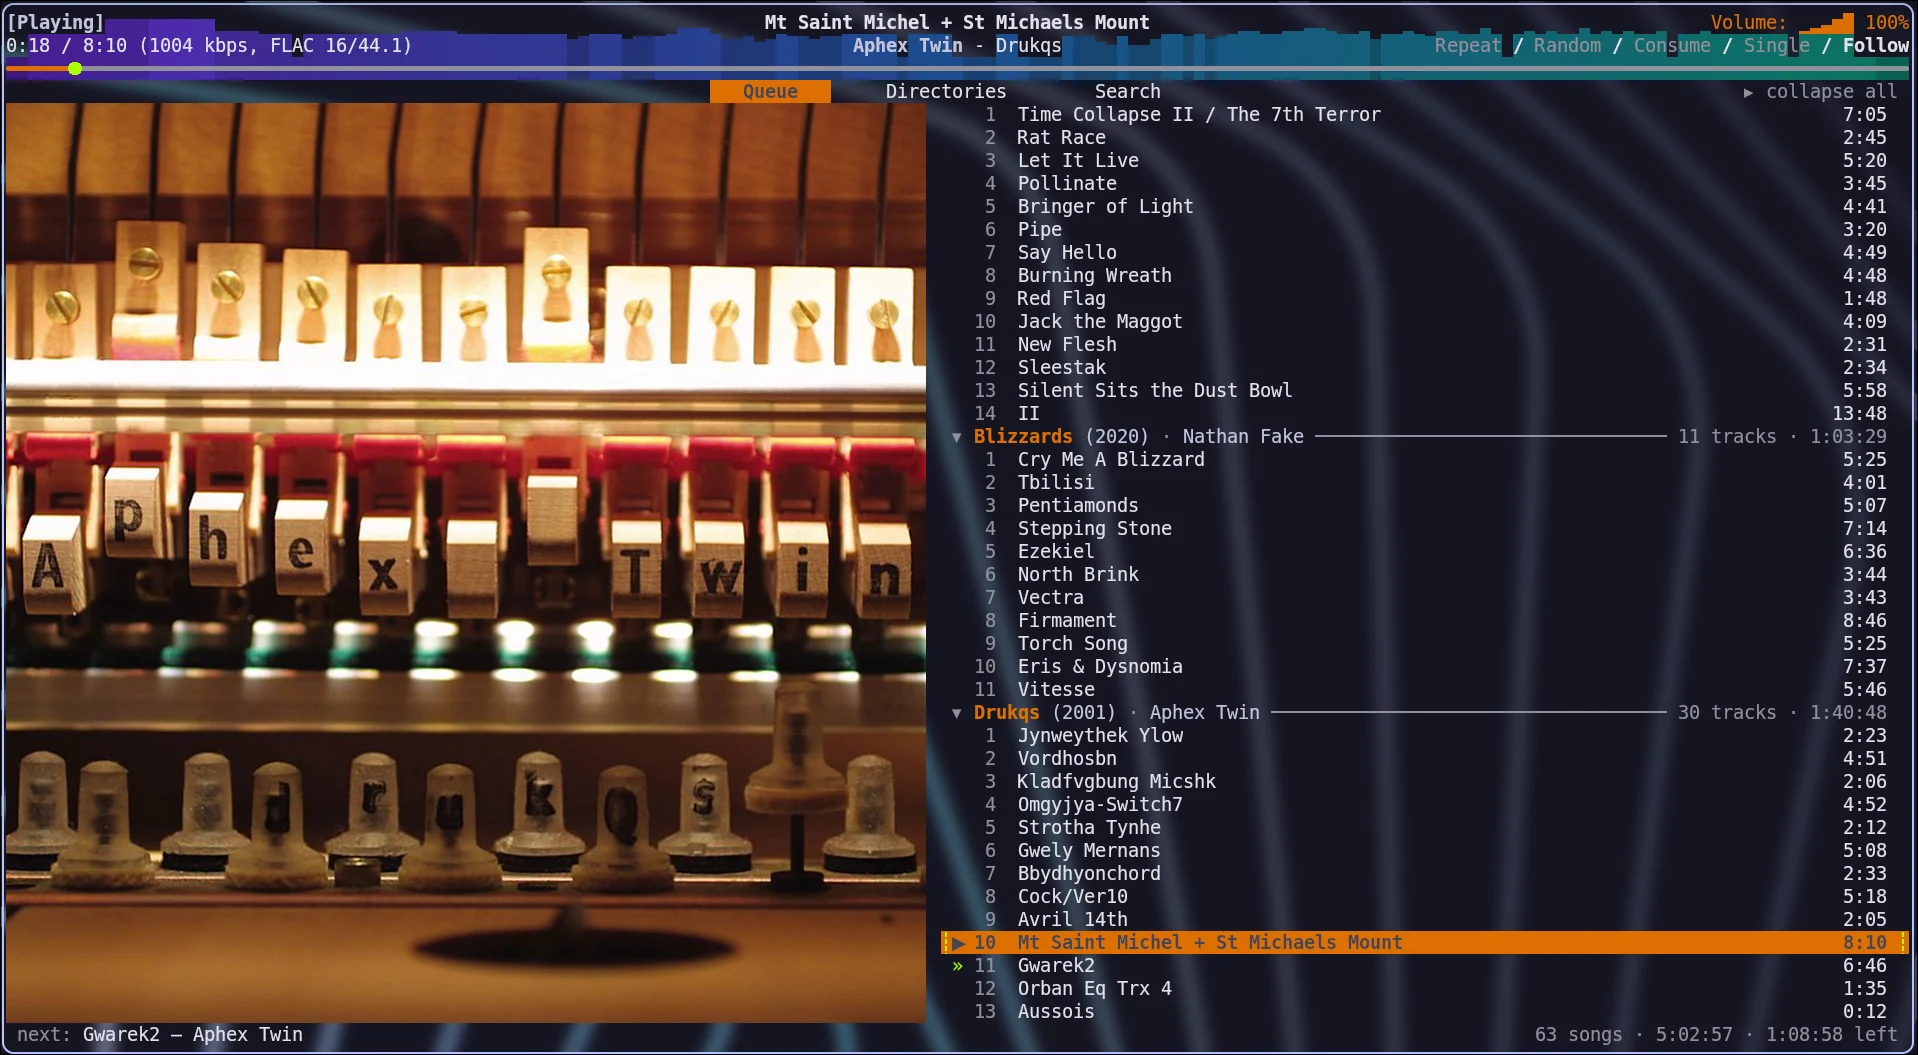
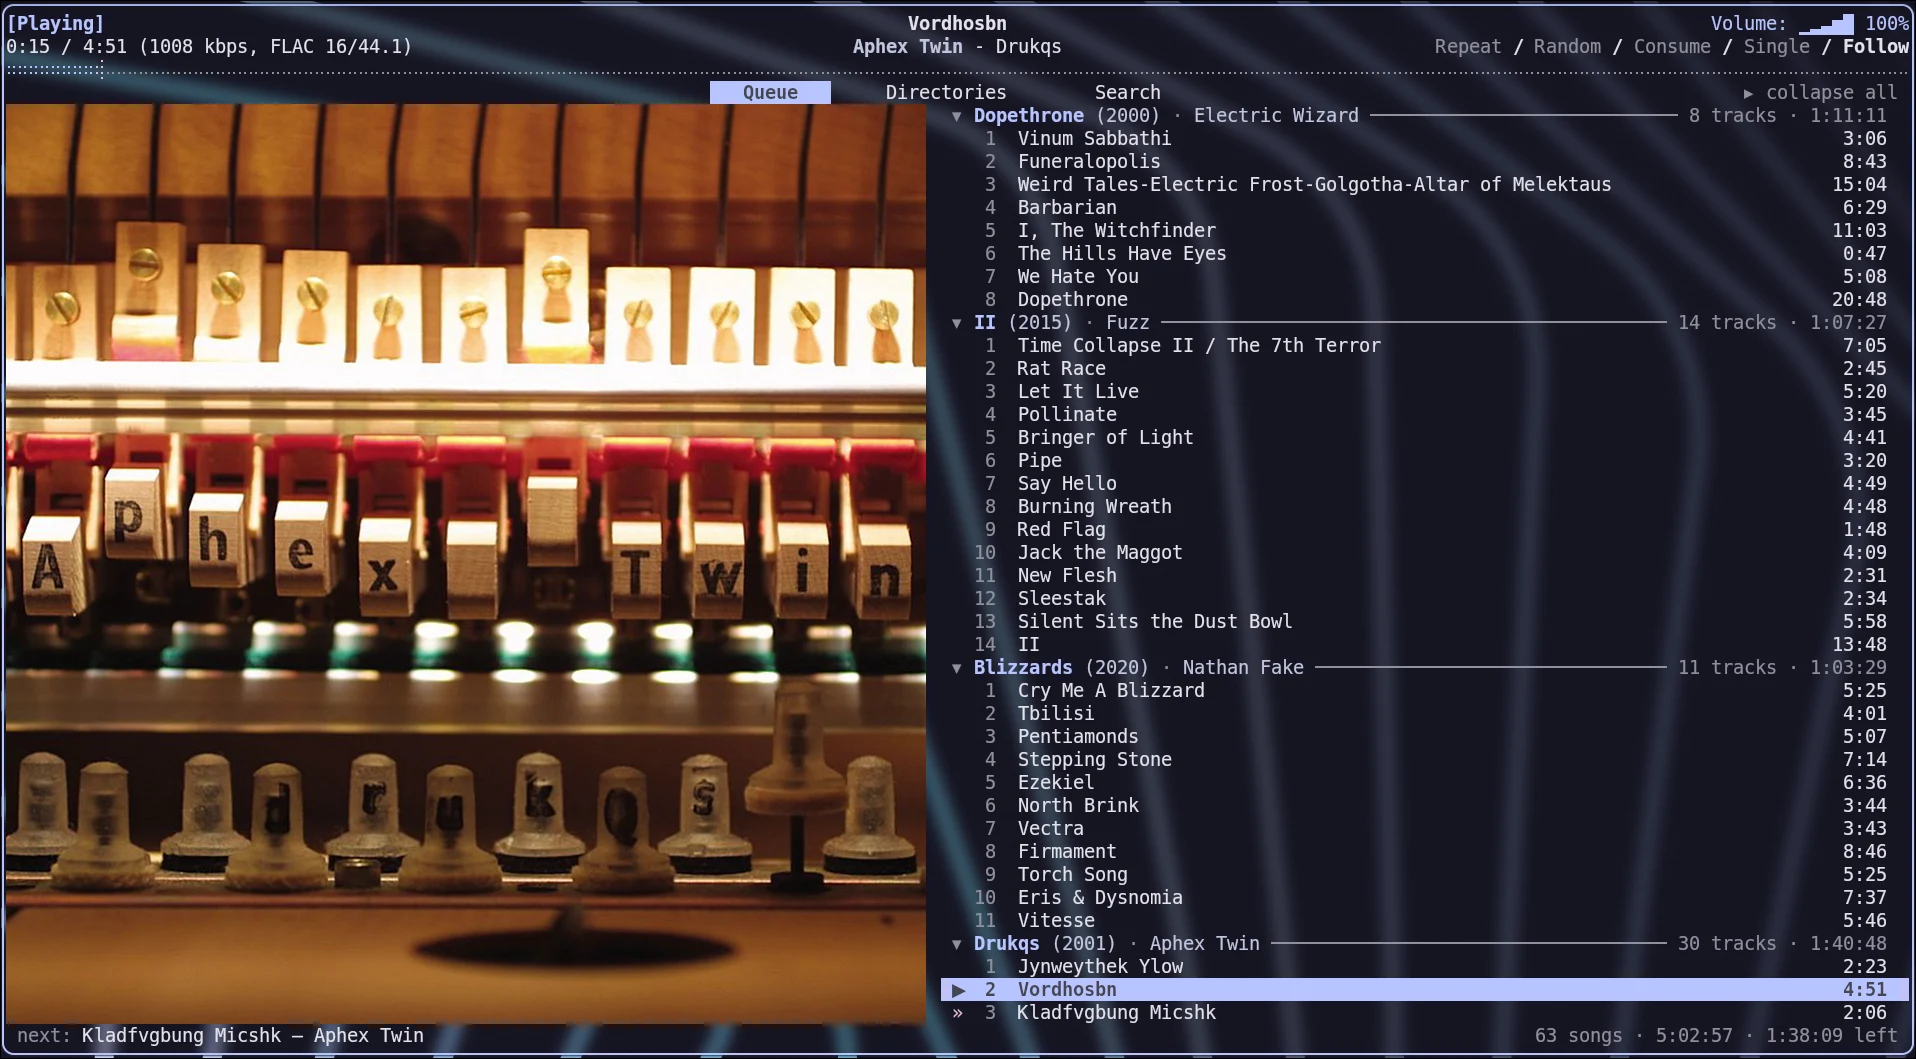
README: new screenshot (braille bar, palette theme)

diff --git a/README.md b/README.md
@@ -8,8 +8,8 @@ rmpc's keys.
 ![notmpc in kitty: the queue grouped by album, the cover at full height,
 the spectrum behind the header](docs/screenshot.webp)
 
-<sub>Shown with a custom orange theme (see Configuration); the defaults use
-the terminal's palette.</sub>
+<sub>Shown with colours taken from the terminal's palette (here generated by
+noctalia from the wallpaper); see Configuration.</sub>
 
 ## Building
 
